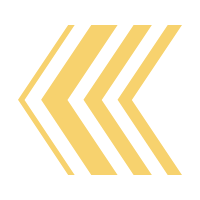
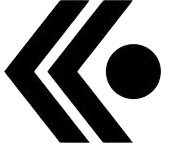
Ajout du design des curseurs

diff --git a/src/main/java/gui/GameStart.java b/src/main/java/gui/GameStart.java
@@ -14,9 +14,11 @@ import javafx.scene.control.ChoiceBox;
 import javafx.scene.control.Label;
 import javafx.scene.layout.Pane;
 import javafx.scene.paint.Color;
+import javafx.scene.paint.ImagePattern;
 import javafx.scene.shape.Circle;
 import javafx.scene.text.Font;
 import javafx.scene.control.ProgressBar;
+import javafx.scene.image.Image;
 import model.Court;
 
 
@@ -43,9 +45,11 @@ public class GameStart {
 	private Button button_2vs2;
 	
 	//Mise en place d'un curseur
-	
 	private Circle curseur_droit;
 	private Circle curseur_gauche;
+	
+	//Mise en place d'un boutton retour
+	private Button retour;
 	
 	//Cette variable permet de savoir où sont positionné les curseurs;
 	private int indice = 0;
@@ -103,6 +107,8 @@ public class GameStart {
 		curseur_droit.setRadius(25);
 	    curseur_droit.setCenterX(play.getLayoutX()+play.getPrefWidth()+25);
 	    curseur_droit.setCenterY(play.getLayoutY()+play.getPrefHeight()/2);
+	    Image j = new Image(getClass().getResourceAsStream("curseur_droit.png"));
+	    curseur_droit.setFill(new ImagePattern(j));
 	    
 	    //Mise en place du curseur gauche;
 	    
@@ -110,6 +116,8 @@ public class GameStart {
 		curseur_gauche.setRadius(25);
 	    curseur_gauche.setCenterX(play.getLayoutX()-25);
 	    curseur_gauche.setCenterY(play.getLayoutY()+play.getPrefHeight()/2);
+	    Image i = new Image(getClass().getResourceAsStream("curseur_gauche.png"));
+	    curseur_gauche.setFill(new ImagePattern(i));
 	    
 	    startRoot.getChildren().addAll(curseur_droit,curseur_gauche);
 	    curseur_gauche.setVisible(false);
@@ -150,11 +158,24 @@ public class GameStart {
 	           System.exit(0);
 	    });
 		
-		startRoot.getChildren().addAll(play, quit,multiplay);
+		
+		retour = new Button();
+		retour.setId("return");
+		retour.getStylesheets().addAll(this.getClass().getResource("style_setting.css").toExternalForm());
+		retour.setLayoutX(40);
+		retour.setLayoutY(40);
+		retour.setPrefSize(100, 100);
+		retour.setCursor(Cursor.HAND);
+		retour.setOnAction(value ->  {
+			retour();
+	    });
+		
+		startRoot.getChildren().addAll(play, quit,multiplay,retour);
 		
 		play.setVisible(false);
 		multiplay.setVisible(false);
 		quit.setVisible(false);
+		retour.setVisible(false);
 		
 		//Mise en place du boutton setting
 		
@@ -533,7 +554,8 @@ public class GameStart {
 
 
 		//Ajout de la flèche retour en arrière
-		Button retour = new Button();
+		/*
+		retour = new Button();
 		retour.setId("return");
 		retour.getStylesheets().addAll(this.getClass().getResource("style_setting.css").toExternalForm());
 		retour.setLayoutX(40);
@@ -548,6 +570,7 @@ public class GameStart {
 			retour.setVisible(false);
 			visible_change(tab_init,true);
 	    });
+	    */
 
 		startRoot.getChildren().add(retour);
 		
@@ -571,6 +594,12 @@ public class GameStart {
 			gw.getCourt().setScoreFinal(choiceBox.getValue());
 	    });
 		
+	}
+	
+	public void retour() {
+		visible_change(getCurrentButton(),false);
+		visible_change(getMenuButton(),true);
+		title.setVisible(true);
 	}
 	
 	public void print_setting_racket_difficulty(Button [] tab1, Button[] tab2) {
@@ -634,6 +663,7 @@ public class GameStart {
 		
 		Button[] btn_accueil = getMenuButton();
 		visible_change(btn_accueil,false);
+		retour.setVisible(true);
 		
 		easy = new Button();
 		easy.setId("button_easy");
@@ -696,9 +726,7 @@ public class GameStart {
 		court.setDifficulty(i);
 		visible_change(getButtonDifficulty(),false);
 		
-		
-		Button[] btn_accueil = getMenuButton();
-		visible_change(btn_accueil,true);
+		visible_change(getMenuButton(),true);
 		court.setPartiEnCours(true);
 		court.setIsBot(true);
 		App.getStage().setScene(courtScene);
@@ -708,8 +736,8 @@ public class GameStart {
 
 		//Cette fonction permet de choisir à l'utilisateur si il veut jouer en 1 vs 1 ou en 2 vs 2 robots
 	public void choose_multiplay() {
-		Button[] btn_accueil = getMenuButton();
-		visible_change(btn_accueil,false);
+		retour.setVisible(true);
+		visible_change(getMenuButton(),false);
 		
 		button_1vs1 = new Button();
 		button_1vs1.setId("button_1vs1");
@@ -730,7 +758,6 @@ public class GameStart {
 		button_2vs2.setLayoutX(width/2 - button_2vs2.getPrefWidth()/2);
 		button_2vs2.setLayoutY(height/2 + 100);
 		
-		Button[] btn_multi = getButtonMulti();
 		
 		startRoot.getChildren().addAll(button_1vs1,button_2vs2);
 		
@@ -765,12 +792,12 @@ public class GameStart {
 	}
 	
 	public Button[] getButtonDifficulty() {
-		Button[] tab = {easy,medium,hard,insane};
+		Button[] tab = {retour,easy,medium,hard,insane};
 		return tab;
 	}
 	
 	public Button[] getButtonMulti() {
-		Button[] tab = {button_1vs1,button_2vs2};
+		Button[] tab = {retour,button_1vs1,button_2vs2};
 		return tab;
 	}
 	

diff --git a/src/main/java/gui/App.java b/src/main/java/gui/App.java
@@ -80,12 +80,9 @@ public class App extends Application {
                     break;
                 case M:
                 	switch (gameStart.getCurrentButton()[gameStart.getCurseurIndice()].getId()) {
-                	case "solo_play_button": gameStart.chose_difficulty();gameStart.setCurrentButton(gameStart.getButtonDifficulty());
-                		break; 
-                	case "multiplay_play_button": gameStart.choose_multiplay();gameStart.setCurrentButton(gameStart.getButtonMulti());
-                		break;
-                	case "settings_button": gameStart.parametre();
-                		break;
+                	case "solo_play_button": gameStart.chose_difficulty();gameStart.setCurrentButton(gameStart.getButtonDifficulty());break; 
+                	case "multiplay_play_button": gameStart.choose_multiplay();gameStart.setCurrentButton(gameStart.getButtonMulti());break;
+                	case "settings_button": gameStart.parametre();break;
                 	case "quit_button": System.exit(0);break;
                 	case "button_easy": gameStart.jouer_solo(1);gameStart.setCurrentButton(gameStart.getMenuButton());break;
                 	case "button_medium": gameStart.jouer_solo(2);gameStart.setCurrentButton(gameStart.getMenuButton());break;
@@ -93,6 +90,7 @@ public class App extends Application {
                 	case "button_insane": gameStart.jouer_solo(4);gameStart.setCurrentButton(gameStart.getMenuButton());break;
                 	case "button_1vs1": gameStart.jouer_multi(false);gameStart.setCurrentButton(gameStart.getMenuButton());break;
                 	case "button_2vs2": gameStart.jouer_multi(true);gameStart.setCurrentButton(gameStart.getMenuButton());break;
+                	case "return":gameStart.retour();gameStart.setCurrentButton(gameStart.getMenuButton());break;
                 	default: break;
                 	}
                 	break;
